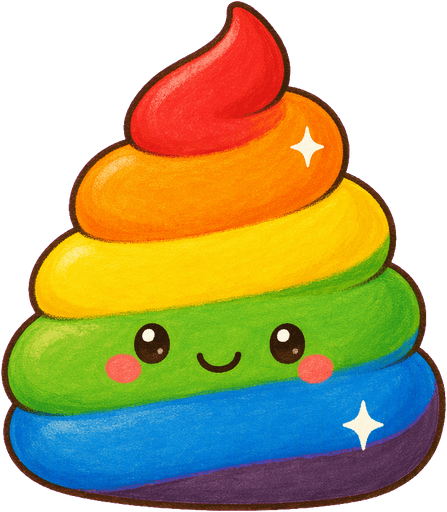
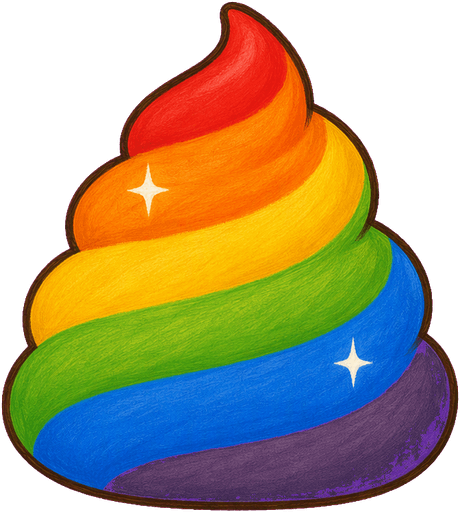
Redraw the rainbow poop without a face
The generator gave it eyes and a smile unprompted. The prompt now rules
out a face explicitly, and the swirl came back better for it — the
stripes sweep around the spiral instead of sitting in flat bands.

Claude-Session: https://claude.ai/code/session_01TpWerDdCSkYi9LeeE5Y21a

diff --git a/scripts/parts.ts b/scripts/parts.ts
@@ -291,11 +291,13 @@ export const PARTS: PartSpec[] = [
   prop(
     'bajs_regnbage',
     'Regnbågsbajs',
-    'A small, tidy, cheerful cartoon poop: the classic soft-serve spiral of ' +
-      'three coils stacked into a point, but coloured in bright rainbow ' +
-      'stripes — red, orange, yellow, green, blue and violet swirling up the ' +
-      'spiral — with a couple of little sparkles. It looks sweet and clean, ' +
-      'like candy or frosting, not dirty at all.',
+    'A small, tidy cartoon poop: the classic soft-serve spiral of three ' +
+      'coils stacked into a point, coloured in bright rainbow stripes — red, ' +
+      'orange, yellow, green, blue and violet swirling up the spiral — with a ' +
+      'couple of little sparkles. It looks sweet and clean, like swirled ' +
+      'frosting, not dirty at all. Very important: it has NO face — no eyes, ' +
+      'no mouth, no eyebrows, no blushing cheeks, no expression of any kind. ' +
+      'It is only the plain rainbow swirl.',
     0.46,
   ),
   prop(
